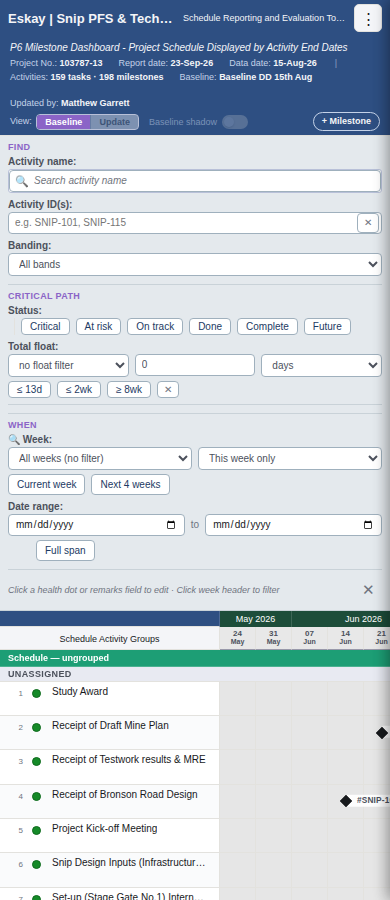
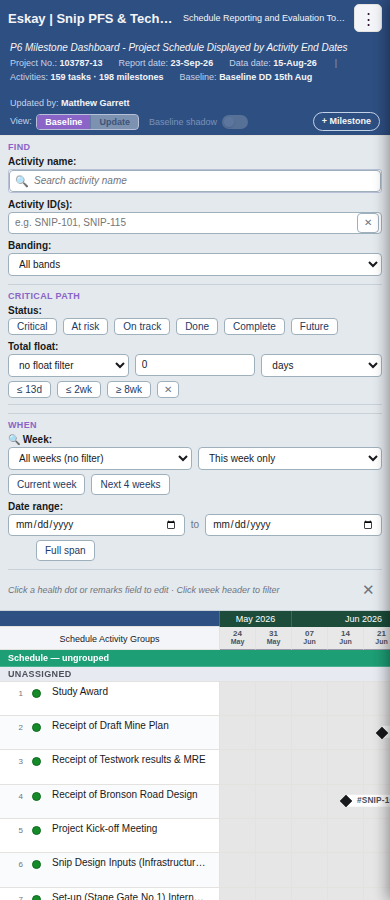
D-15a: remove stray dividers, fix dark-mode filter text, stabilise d15_check
- Chip and quick-button groups in the Top filter bar no longer draw the
  desktop divider on their own line (status group everywhere, all groups
  below 768px).
- Filter bar labels and field text read --color-text-primary instead of
  --color-text-small, which is #334 in dark and was unreadable (TD-28).
- theme_check probes the filter bar label and a select; the probes fail on
  the previous build and pass on this one.
- d15_check waits on setTimeout, not requestAnimationFrame, which headless
  Chromium does not reliably fire under virtual time; 5 of 5 runs pass.
- Phone screenshots re-shot.

Claude-Session: https://claude.ai/code/session_01VvvMafGZ9E3v4dsCotnPSK

diff --git a/Projects/P6-Milestone-Dashboard/src/milestone-dashboard.html b/Projects/P6-Milestone-Dashboard/src/milestone-dashboard.html
@@ -840,14 +840,15 @@ input[type=range]{width:110px;cursor:pointer}
    label column from 768px up, so every field's controls start at the same
    x regardless of label length ("Activity name:" vs "Week:"). */
 #top-filter-bar .tfb-group{display:flex;flex-direction:column;gap:var(--space-1)}
-#top-filter-bar .tfb-group>label{flex:0 0 auto;font-weight:600;color:var(--color-text-small)}
+/* --color-text-primary, not --color-text-small: small is #334 in dark (TD-28). */
+#top-filter-bar .tfb-group>label{flex:0 0 auto;font-weight:600;color:var(--color-text-primary)}
 #top-filter-bar .tfb-fld-ctrl{display:flex;flex-wrap:wrap;align-items:center;gap:var(--space-2) var(--space-3);min-width:0}
 @media (min-width:768px){
   #top-filter-bar .tfb-group{flex-direction:row;align-items:center;gap:var(--space-3)}
   #top-filter-bar .tfb-group>label{flex:0 0 var(--tfb-label-w,92px)}
   #top-filter-bar .tfb-fld-ctrl{flex:1 1 auto}
 }
-#top-filter-bar .tfb-status-group{flex-wrap:wrap}
+#top-filter-bar .tfb-status-group{flex-wrap:wrap;margin-left:0;padding-left:0;border-left:none}
 /* Each chip carries its state's own colour when selected, so the filter reads
    in the same vocabulary as the board it filters. Unselected they are plain,
    because an unselected chip is not a state the board is showing. */
@@ -938,7 +939,7 @@ input[type=range]{width:110px;cursor:pointer}
 #top-filter-bar input[type="number"],#top-filter-bar input[type="date"]{
   box-sizing:border-box;font-size:var(--text-sm);padding:var(--space-2) var(--space-3);
   border-radius:4px;border:1px solid var(--color-btn-secondary-outline);
-  background:var(--color-bg-elevated);color:var(--color-text-small);
+  background:var(--color-bg-elevated);color:var(--color-text-primary);
   font-family:inherit;line-height:1.2}
 #top-filter-bar select{cursor:pointer;min-width:110px}
 /* Chromium gives a date input's own internal layout a floor the padding
@@ -1025,6 +1026,9 @@ input[type=range]{width:110px;cursor:pointer}
   #top-filter-bar #tfb-when .tfb-fld-grid>input{flex:1 1 45%}
   #top-filter-bar .tfb-fld-grid>.fb-inline-group{margin-left:0;padding-left:0;
     border-left:none;flex:0 0 auto}
+  /* Below 768px every chip or quick-button group starts its own line, so the
+     desktop divider in front of it would draw a stray rule down the left edge. */
+  #top-filter-bar .fb-inline-group{margin-left:0;padding-left:0;border-left:none}
   #top-filter-bar .tfb-fld-grid>.fb-field-clear,
   #top-filter-bar .tfb-fld-grid>.filter-btn,
   #top-filter-bar .tfb-fld-grid>.tfb-range-sep{flex:0 0 auto}

diff --git a/Projects/P6-Milestone-Dashboard/tools/d15_check.py b/Projects/P6-Milestone-Dashboard/tools/d15_check.py
@@ -49,7 +49,7 @@ PROBE = r"""
     const dlg=document.getElementById('ms-dialog');
     const wasHidden=dlg.hidden;
     dlg.hidden=false; // force layout/paint of the dialog so computed style is real
-    await new Promise(r=>requestAnimationFrame(()=>requestAnimationFrame(r)));
+    await new Promise(r=>setTimeout(r,120));
     const bs=getComputedStyle(dlg).boxShadow;
     R.notes.boxShadow={theme:THEME,value:bs};
     ck('box-shadow: #ms-dialog resolves to a real shadow in '+THEME,
@@ -83,7 +83,7 @@ PROBE = r"""
       outlineBefore=getComputedStyle(probeBtn).outlineStyle;
       try{ probeBtn.focus({focusVisible:true}); forced=true; }
       catch(e){ try{ probeBtn.focus(); forced=true; }catch(e2){} }
-      await new Promise(r=>requestAnimationFrame(r));
+      await new Promise(r=>setTimeout(r,60));
       outlineAfter=getComputedStyle(probeBtn).outlineStyle;
     }
     R.notes.focusVisible={forced:forced,before:outlineBefore,after:outlineAfter,

diff --git a/Projects/P6-Milestone-Dashboard/tools/theme_check.py b/Projects/P6-Milestone-Dashboard/tools/theme_check.py
@@ -76,6 +76,10 @@ const PROBES = [
   // classification has changed twice and the file should state which it is.
   ['.sticky-search-icon',  'toggle', () => document.querySelector('.sticky-search-icon')],
   ['.sticky-search-clear', 'toggle', () => document.querySelector('.sticky-search-clear')],
+  // Top filter bar labels and fields. Both read --color-text-small until
+  // D-15a, which is #334 in dark: unreadable, and nothing here probed it.
+  ['#top-filter-bar label',      'toggle',   () => document.querySelector('#top-filter-bar .tfb-group>label')],
+  ['#top-filter-bar select',     'toggle',   () => document.querySelector('#filter-band')],
   ['.view-toggle',               'toggle',   () => document.querySelector('.view-toggle')],
   ['th.c-name (column header)',  'toggle',   () => document.querySelector('th.c-name:not(.sticky)')
                                               || document.querySelectorAll('th.c-name')[1]],
